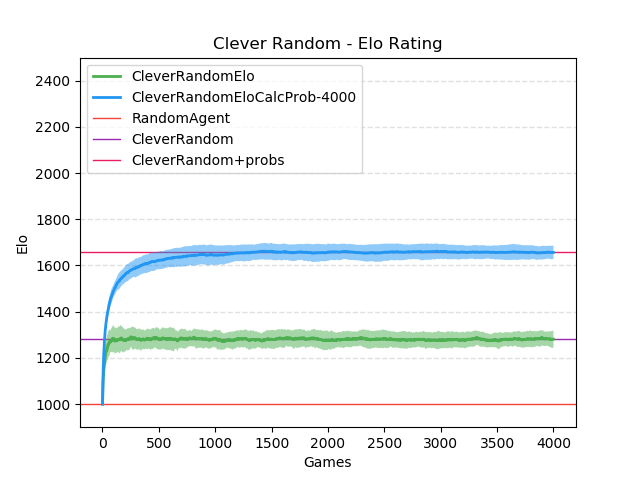
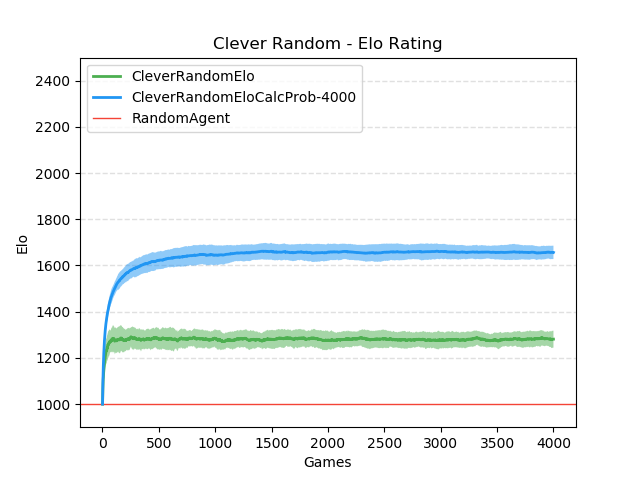
fix

diff --git a/plotgenerators/plots.py b/plotgenerators/plots.py
@@ -6,7 +6,7 @@ import os
 
 
 class EloPlot():
-    def __init__(self, xlabel='Games', title='Placeholder', saves=[]):
+    def __init__(self, xlabel='Games', title='Placeholder', saves=[], RA=True, CR=True, CRP=True):
         self.plt = plt
         self.plt.ylim((900, 2500))
         self.plt.title(title)
@@ -14,16 +14,17 @@ class EloPlot():
         self.plt.xlabel(xlabel)
         self.plt.ylabel('Elo')
         self.saves = saves
+        self.RA, self.CR, self.CRP = RA, CR, CRP
 
         def varPlot(self, data, agent, color):
-            Mean = np.mean(data, axis=2)
-            Std = np.std(data, axis=2)
-            y = Mean[0, :]
-            sd = Std[0, :]
-            x = np.arange(1, len(y) + 1)
-            self.plot(x, y, lw=2, label=agent, color=color, zorder=2)
-            self.fill_between(x, y + sd, y - sd, facecolor=color, alpha=0.5, zorder=2)
             if data is not None:
+                Mean = np.mean(data, axis=2)
+                Std = np.std(data, axis=2)
+                y = Mean[0, :]
+                sd = Std[0, :]
+                x = np.arange(1, len(y) + 1)
+                self.plot(x, y, lw=2, label=agent, color=color, zorder=2)
+                self.fill_between(x, y + sd, y - sd, facecolor=color, alpha=0.5, zorder=2)
                 self.doPrint = True
 
         self.plt.varPlot = varPlot
@@ -34,12 +35,15 @@ class EloPlot():
 
     def __exit__(self, types, value, traceback):
         if self.plt.doPrint:
-            self.plt.axhline(y=1000, color='#F44336', lw=1, label='RandomAgent', zorder=1)
+            if self.RA:
+                self.plt.axhline(y=1000, color='#F44336', lw=1, label='RandomAgent', zorder=1)
             self.plt.axhline(y=1200, color='#E0E0E0', linestyle='dashed', lw=1, zorder=1)
-            self.plt.axhline(y=1280, color='#9C27B0', lw=1, label='CleverRandom', zorder=1)
+            if self.CR:
+                self.plt.axhline(y=1280, color='#9C27B0', lw=1, label='CleverRandom', zorder=1)
             self.plt.axhline(y=1400, color='#E0E0E0', linestyle='dashed', lw=1, zorder=1)
             self.plt.axhline(y=1600, color='#E0E0E0', linestyle='dashed', lw=1, zorder=1)
-            self.plt.axhline(y=1657, color='#E91E63', lw=1, label='CleverRandom+probs', zorder=1)
+            if self.CRP:
+                self.plt.axhline(y=1657, color='#E91E63', lw=1, label='CleverRandom+probs', zorder=1)
             self.plt.axhline(y=1800, color='#E0E0E0', linestyle='dashed', lw=1, zorder=1)
             self.plt.axhline(y=2000, color='#E0E0E0', linestyle='dashed', lw=1, zorder=1)
             self.plt.axhline(y=2200, color='#E0E0E0', linestyle='dashed', lw=1, zorder=1)
@@ -68,7 +72,9 @@ class DataFinder():
                     data = pd.read_csv(directory + '\\' + filename, header=None)
                     data = np.array(data).reshape(data.shape[0], data.shape[1], 1)
                 except Exception as e:
-                    print(e, 3)
+                    curentname = None
+                    print(e, 3, curentname)
+
                 if curentname == 'Elo'and elo:
                     try:
                         if self.Elo is None:

diff --git a/plotgenerators/cleverrandomelo.py b/plotgenerators/cleverrandomelo.py
@@ -2,7 +2,7 @@ from plots import EloPlot, DataFinder
 import numpy as np
 
 
-with EloPlot(title=f'Clever Random - Elo Rating', saves=[f'GoodPlots/CleverRandom.png']) as plt:
+with EloPlot(title=f'Clever Random - Elo Rating', saves=[f'GoodPlots/CleverRandom.png'], CR=False, CRP=False) as plt:
     for directory, color in [(".\outputs\CleverRandomElo\csv", '#4CAF50'), (".\outputs\CleverRandomEloCalcProb-4000\csv", '#2196F3')]:
         with DataFinder(directory, elo=False) as obj:
             _, EloOverTime, name, agent = obj
